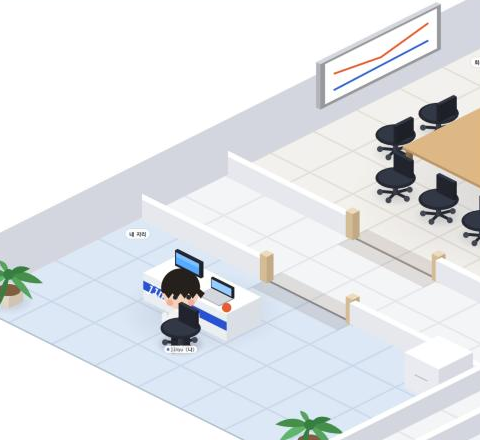
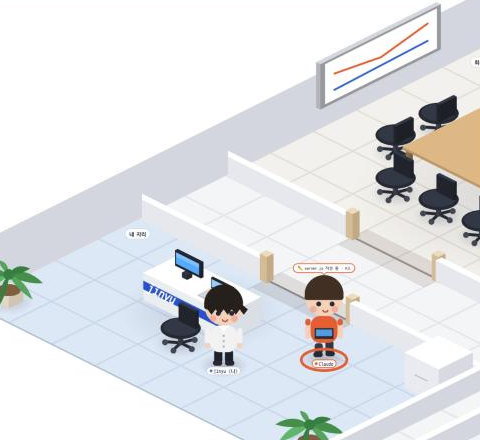
fix(fe): 내 자리 사용자를 의자 옆 타일(5,20)에 서 있게 해 가려지지 않도록 (#35)

Changed region(s): [[0.3125, 0.5909, 0.5312, 0.8568], [0.5938, 0.5909, 0.75, 0.8568]]

diff --git a/public/js/scene/actors.js b/public/js/scene/actors.js
@@ -72,7 +72,7 @@ function drawPerson(ctx, a, now, spec) {
   ctx.globalAlpha = a.dim ? 0.45 : 1;
   shadow(ctx, cx, cy, 0.28, 0.14, 0.2);
   const bob = a.walking ? Math.abs(Math.sin(a.walkT * 9)) * 2.2 : (a.activity === 'think' ? Math.sin(now / 420) * 0.8 : 0);
-  const sit = a.activity === 'rest' || a.user ? 4 : 0;
+  const sit = a.activity === 'rest' ? 4 : 0;
   const fx = base.x, fy = base.y - bob + sit;
   drawAvatar(ctx, fx, fy, spec, { sessionColor: a.color, walking: a.walking, walkT: a.walkT, now, faceRight: a.faceRight, thinking: a.activity === 'think', hardHat: a.kind === 'sub' });
   // 활동 소품 (손 높이)

diff --git a/public/js/scene/map.js b/public/js/scene/map.js
@@ -130,7 +130,7 @@ export const SLOTS = {
   lobby:    [[11, 20], [13, 20], [15, 20], [12, 21], [14, 21]],
   elevator: [[24, 19], [25, 19], [23, 19], [26, 19], [24, 20], [25, 20], [22, 19]],
 };
-export const USER_SEAT = { x: 4, y: 20 };
+export const USER_SEAT = { x: 5, y: 20 };  // 의자(4,20) 옆에 서 있어 캐릭터가 가려지지 않게
 export const SPAWN = { x: 24, y: 19 };   // 서브에이전트 등장/퇴장 지점 (엘리베이터 앞)
 
 // ---------- 통행 ----------
